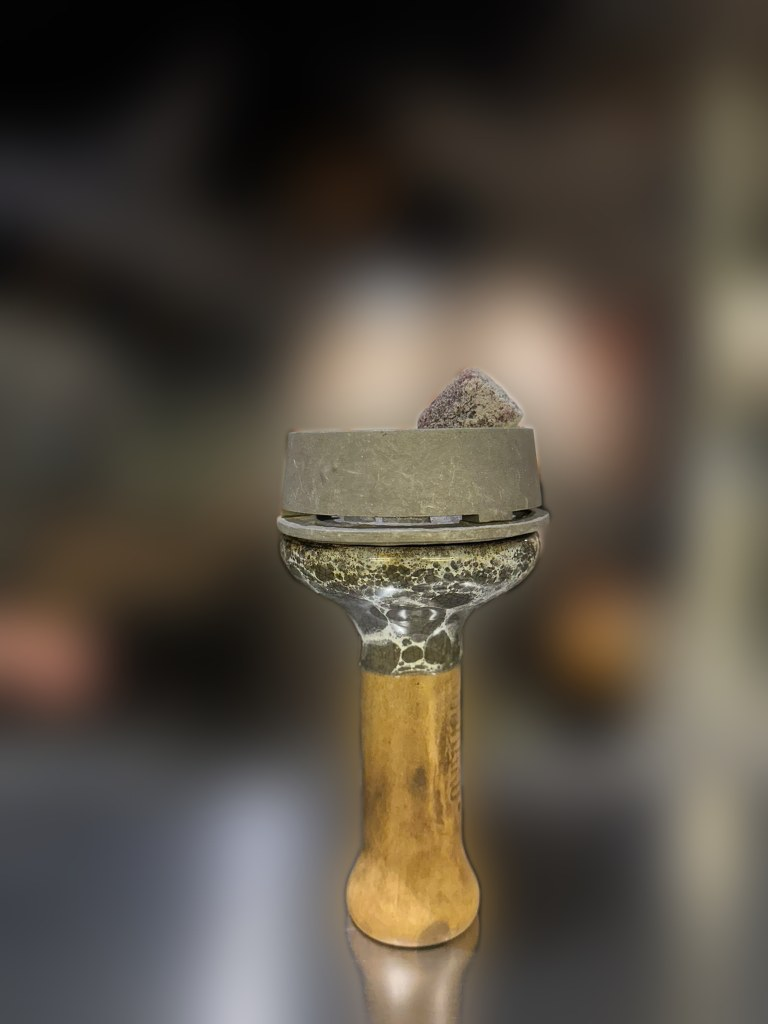
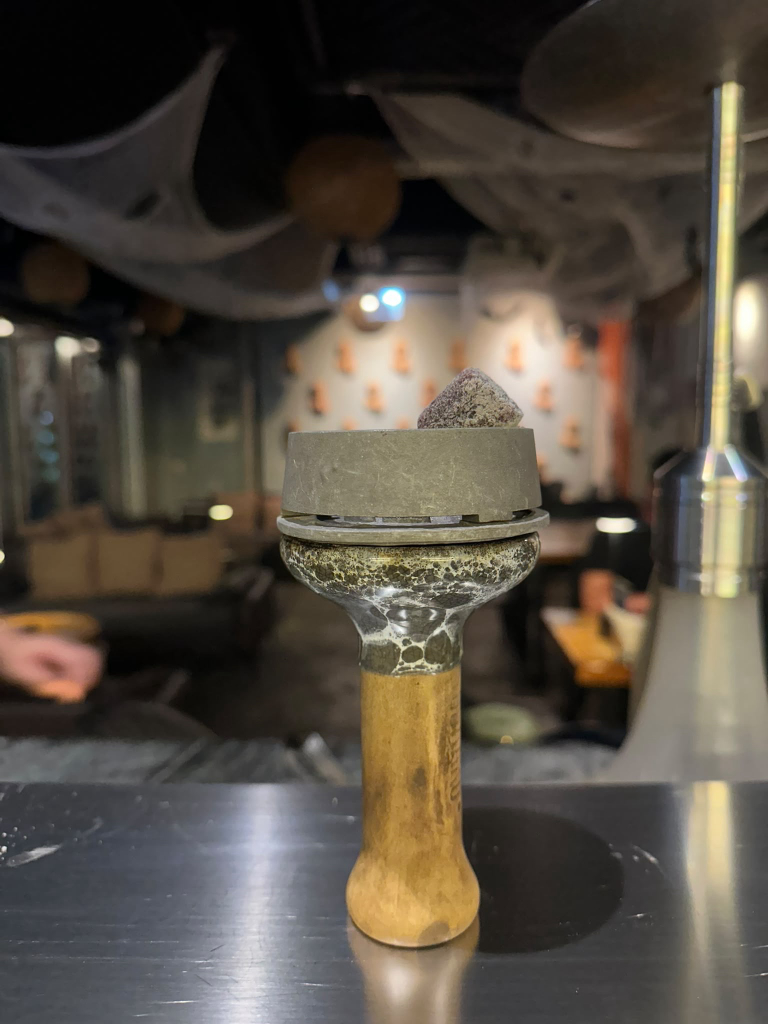
Restore sharp venue shisha photos (undo rembg blur) (#148)
Background-blur mis-segmented the pipe/hose and left the shisha
itself soft. Restore pre-blur venue shoot JPEGs for Regular and
Change Head, bump asset cache version, and guard in tests/docs.

diff --git a/tests/test_polar_product_photos.py b/tests/test_polar_product_photos.py
@@ -32,6 +32,7 @@ def test_key_product_photos_and_renames():
     menu_dir = _POLAR / "static" / "images" / "menu"
     for name in (
         "shisha-regular.jpg",
+        "shisha-change.jpg",
         "aj.jpg",
         "corona.jpg",
         "grey-goose.jpg",
@@ -48,6 +49,12 @@ def test_key_product_photos_and_renames():
         path = menu_dir / name
         assert path.is_file(), name
         assert path.stat().st_size > 50_000, name
+
+    # Shisha must stay as venue originals — rembg bg-blur mis-cuts the pipe/hose
+    # and leaves the subject itself blurry (~59KB). Restored files are much larger.
+    for name in ("shisha-regular.jpg", "shisha-change.jpg"):
+        size = (menu_dir / name).stat().st_size
+        assert size > 200_000, f"{name} looks rembg-blurred ({size} bytes)"
 
     from fastapi.testclient import TestClient
 

diff --git a/polar-order/app/main.py b/polar-order/app/main.py
@@ -96,7 +96,7 @@ templates = Jinja2Templates(directory=str(ROOT / "templates"))
 
 STAFF_PIN = os.getenv("POLAR_STAFF_PIN", "polar2026")
 # Bump when shipping guest UI/CSS/JS so iPhone Safari cannot keep a stale bundle.
-ASSET_VERSION = os.getenv("POLAR_ASSET_VERSION", "20261031a").strip() or "20261031a"
+ASSET_VERSION = os.getenv("POLAR_ASSET_VERSION", "20261031b").strip() or "20261031b"
 templates.env.globals["asset_v"] = ASSET_VERSION
 _subscribers: list[asyncio.Queue] = []
 

diff --git a/polar-order/docs/ADD-MENU-PHOTOS.md b/polar-order/docs/ADD-MENU-PHOTOS.md
@@ -30,3 +30,5 @@ Example: Regular Shisha → `static/images/menu/shisha-regular.jpg`
 - Keep photos under ~500KB for fast iPhone loading.
 - If `image` is missing, the guest menu still works (text only).
 - Sample placeholders are already included for: `shisha-regular`, `shisha-change`, `aries`, `fries`.
+- **Do not run bottle-style rembg background blur on shisha photos** — the pipe/hose is often
+  mis-segmented and the subject itself ends up blurred. Keep the venue shoot originals.
